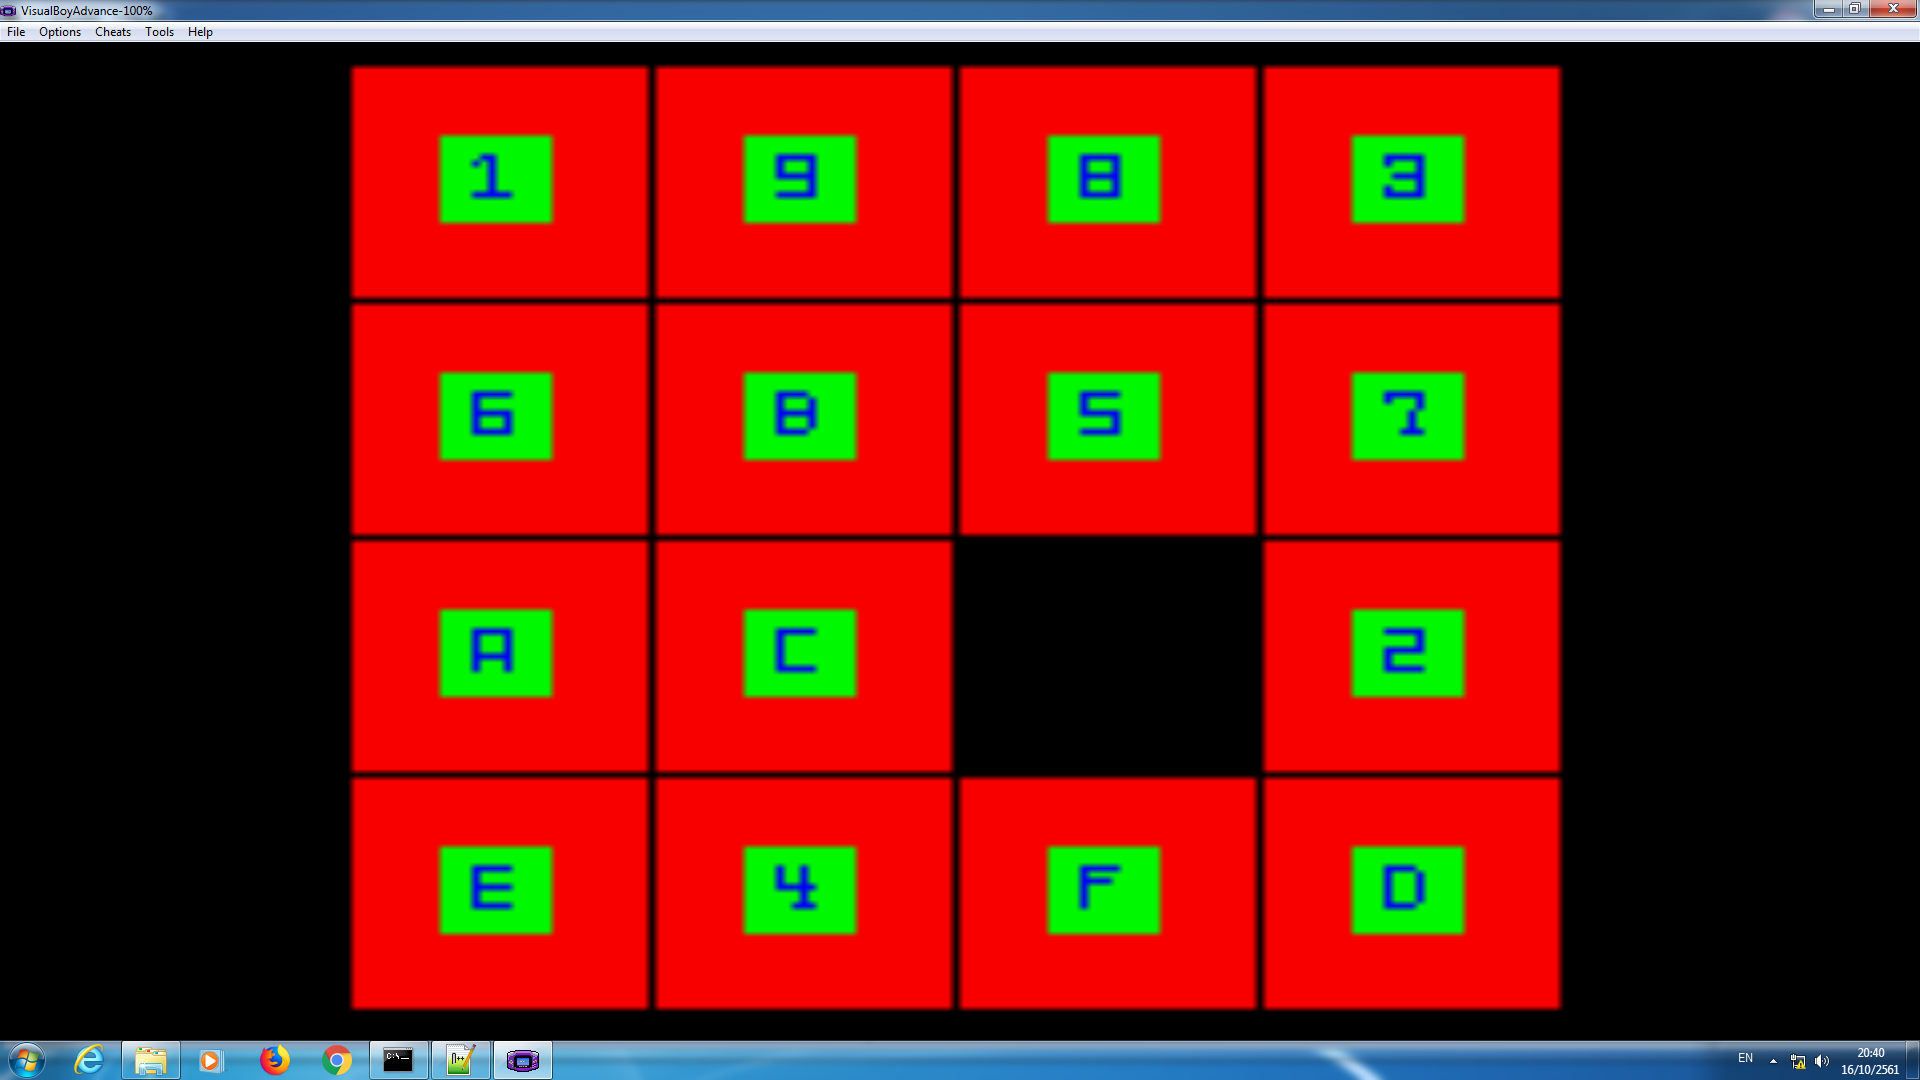
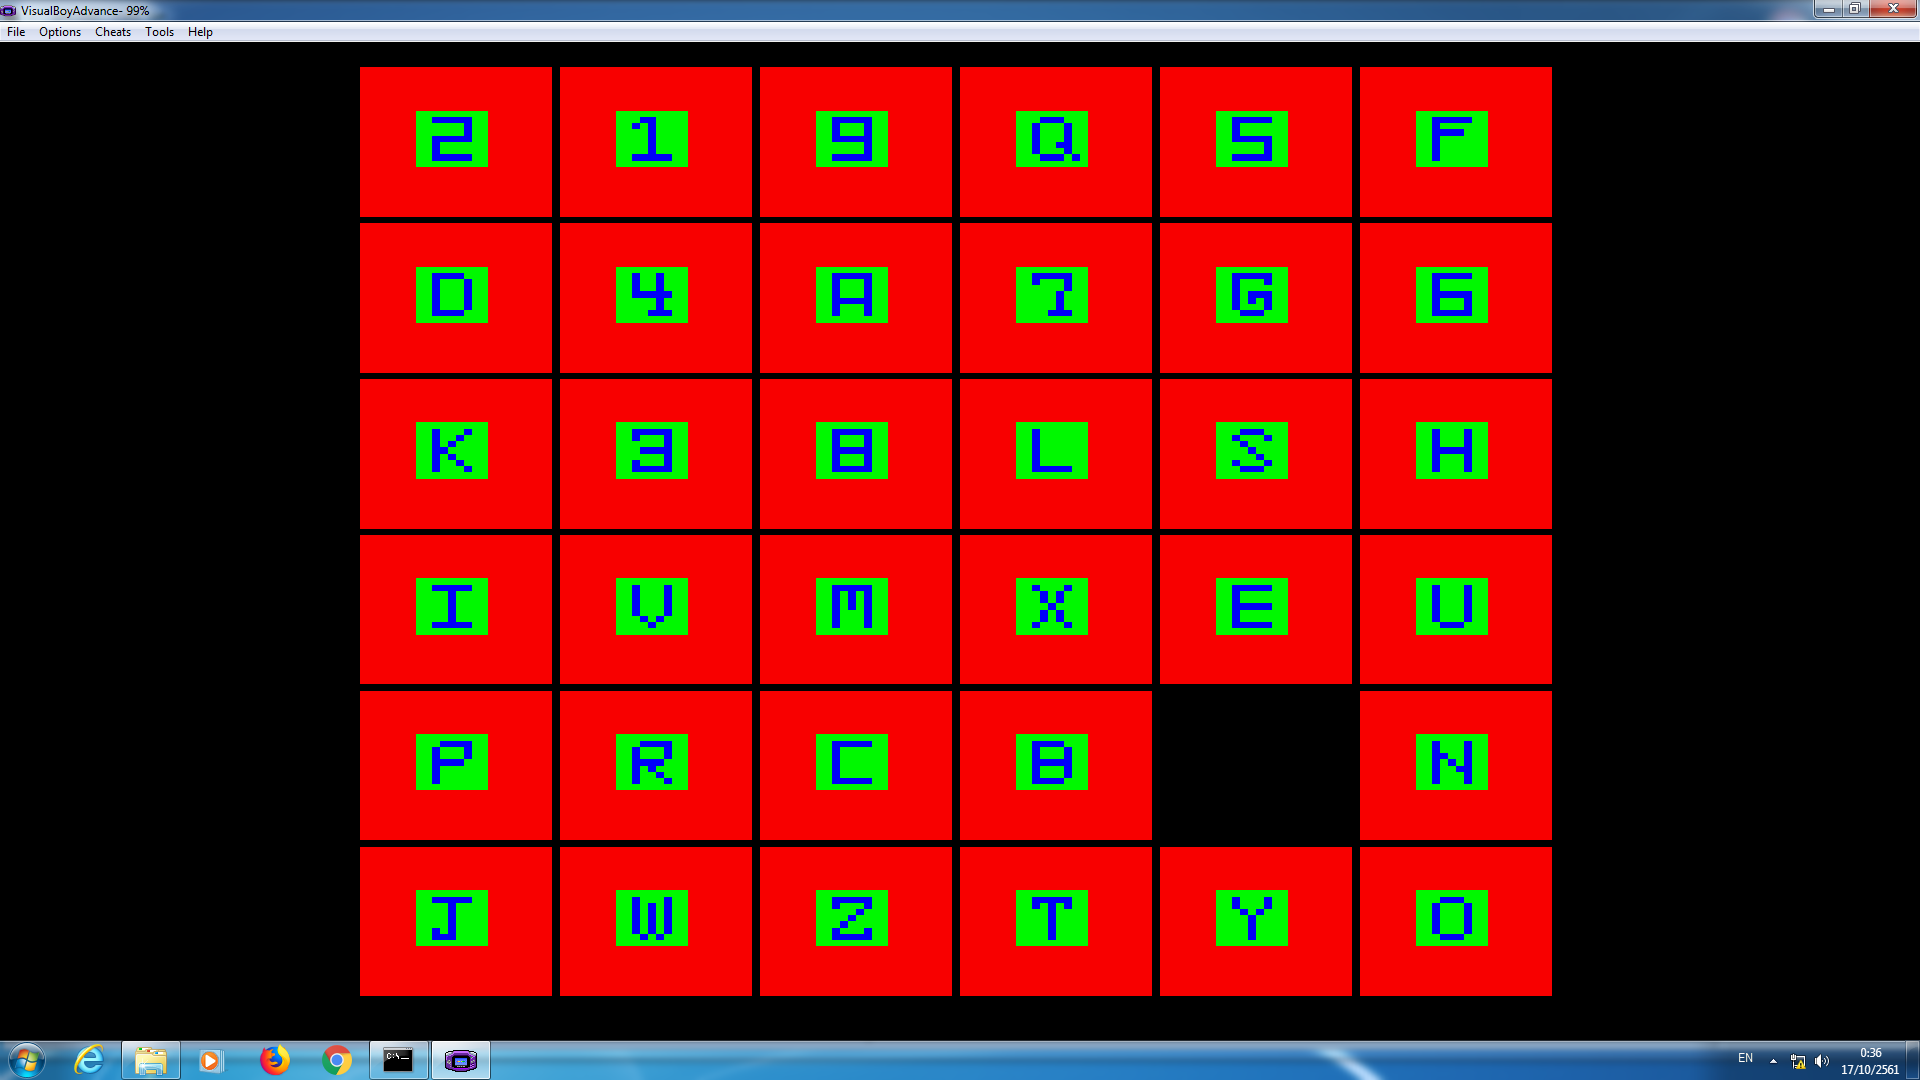
modified:   Font.hpp 	modified:   main.cpp 	modified:   res/slider.png 	modified:   rom/slider.gba

Changed region(s): [[0.1562, 0.0611, 0.8125, 1.0], [0.0625, 0.0, 0.0938, 0.0306]]

diff --git a/Font.hpp b/Font.hpp
@@ -9,7 +9,7 @@
 struct Font
 {
 	static constexpr const u8arm_t SIZE=7;
-	static constexpr const u8arm_t NUM=16;
+	static constexpr const u8arm_t NUM=36;
 
 	static const u8arm_t FONT[NUM][SIZE][SIZE];
 
@@ -25,9 +25,9 @@ const u8arm_t Font::FONT[Font::NUM][Font::SIZE][Font::SIZE]
 		{ // 0
 		{0,1,1,1,1,1,0} , \
 		{0,1,0,0,0,1,0} , \
-		{0,1,0,0,0,1,0} , \
-		{0,1,0,0,0,1,0} , \
-		{0,1,0,0,0,1,0} , \
+		{0,1,1,0,0,1,0} , \
+		{0,1,0,1,0,1,0} , \
+		{0,1,0,0,1,1,0} , \
 		{0,1,0,0,0,1,0} , \
 		{0,1,1,1,1,1,0} ,
 		}, \
@@ -181,8 +181,208 @@ const u8arm_t Font::FONT[Font::NUM][Font::SIZE][Font::SIZE]
 		{0,1,0,0,0,0,0} , \
 		{0,1,0,0,0,0,0} , \
 		{0,1,0,0,0,0,0} ,
-		}
+		}, \
 
+		{ // G
+		{0,1,1,1,1,1,0} , \
+		{0,1,0,0,0,1,0} , \
+		{0,1,0,0,0,0,0} , \
+		{0,1,0,1,1,1,0} , \
+		{0,1,0,1,0,1,0} , \
+		{0,1,0,0,0,1,0} , \
+		{0,0,1,1,1,0,0} ,
+		}, \
+
+		{ // H
+		{0,1,0,0,0,1,0} , \
+		{0,1,0,0,0,1,0} , \
+		{0,1,0,0,0,1,0} , \
+		{0,1,1,1,1,1,0} , \
+		{0,1,0,0,0,1,0} , \
+		{0,1,0,0,0,1,0} , \
+		{0,1,0,0,0,1,0} ,
+		}, \
+
+		{ // I
+		{0,1,1,1,1,1,0} , \
+		{0,0,0,1,0,0,0} , \
+		{0,0,0,1,0,0,0} , \
+		{0,0,0,1,0,0,0} , \
+		{0,0,0,1,0,0,0} , \
+		{0,0,0,1,0,0,0} , \
+		{0,1,1,1,1,1,0} ,
+		}, \
+
+		{ // J
+		{0,1,1,1,1,1,0} , \
+		{0,0,0,1,0,0,0} , \
+		{0,0,0,1,0,0,0} , \
+		{0,0,0,1,0,0,0} , \
+		{0,0,0,1,0,0,0} , \
+		{0,1,0,1,0,0,0} , \
+		{0,1,1,1,0,0,0} ,
+		}, \
+
+		{ // K
+		{0,1,0,0,0,1,0} , \
+		{0,1,0,0,1,0,0} , \
+		{0,1,0,1,0,0,0} , \
+		{0,1,1,0,0,0,0} , \
+		{0,1,0,1,0,0,0} , \
+		{0,1,0,0,1,0,0} , \
+		{0,1,0,0,0,1,0} ,
+		}, \
+
+		{ // L
+		{0,1,0,0,0,0,0} , \
+		{0,1,0,0,0,0,0} , \
+		{0,1,0,0,0,0,0} , \
+		{0,1,0,0,0,0,0} , \
+		{0,1,0,0,0,0,0} , \
+		{0,1,0,0,0,0,0} , \
+		{0,1,1,1,1,1,0} ,
+		}, \
+
+		{ // M
+		{0,1,1,1,1,1,0} , \
+		{0,1,0,1,0,1,0} , \
+		{0,1,0,1,0,1,0} , \
+		{0,1,0,1,0,1,0} , \
+		{0,1,0,0,0,1,0} , \
+		{0,1,0,0,0,1,0} , \
+		{0,1,0,0,0,1,0} ,
+		}, \
+
+		{ // N
+		{0,1,0,0,0,1,0} , \
+		{0,1,0,0,0,1,0} , \
+		{0,1,1,0,0,1,0} , \
+		{0,1,0,1,0,1,0} , \
+		{0,1,0,0,1,1,0} , \
+		{0,1,0,0,0,1,0} , \
+		{0,1,0,0,0,1,0} ,
+		}, \
+
+		{ // O
+		{0,0,1,1,1,0,0} , \
+		{0,1,0,0,0,1,0} , \
+		{0,1,0,0,0,1,0} , \
+		{0,1,0,0,0,1,0} , \
+		{0,1,0,0,0,1,0} , \
+		{0,1,0,0,0,1,0} , \
+		{0,0,1,1,1,0,0} ,
+		}, \
+
+		{ // P
+		{0,0,1,1,1,1,0} , \
+		{0,1,0,0,0,1,0} , \
+		{0,1,0,0,0,1,0} , \
+		{0,1,1,1,1,0,0} , \
+		{0,1,0,0,0,0,0} , \
+		{0,1,0,0,0,0,0} , \
+		{0,1,0,0,0,0,0} ,
+		}, \
+
+		{ // Q
+		{0,0,1,1,1,0,0} , \
+		{0,1,0,0,0,1,0} , \
+		{0,1,0,0,0,1,0} , \
+		{0,1,0,0,0,1,0} , \
+		{0,1,0,0,1,1,0} , \
+		{0,1,0,0,0,1,0} , \
+		{0,0,1,1,1,0,1} ,
+		}, \
+
+		{ // R
+		{0,0,1,1,1,1,0} , \
+		{0,1,0,0,0,1,0} , \
+		{0,1,0,0,0,1,0} , \
+		{0,1,1,1,1,0,0} , \
+		{0,1,0,1,0,0,0} , \
+		{0,1,0,0,1,0,0} , \
+		{0,1,0,0,0,1,0} ,
+		}, \
+
+		{ // S
+		{0,0,1,1,1,0,0} , \
+		{0,1,0,0,0,1,0} , \
+		{0,0,1,0,0,0,0} , \
+		{0,0,0,1,0,0,0} , \
+		{0,0,0,0,1,0,0} , \
+		{0,1,0,0,0,1,0} , \
+		{0,0,1,1,1,0,0} ,
+		}, \
+
+		{ // T
+		{0,1,1,1,1,1,0} , \
+		{0,1,0,1,0,1,0} , \
+		{0,0,0,1,0,0,0} , \
+		{0,0,0,1,0,0,0} , \
+		{0,0,0,1,0,0,0} , \
+		{0,0,0,1,0,0,0} , \
+		{0,0,0,1,0,0,0} ,
+		}, \
+
+		{ // U
+		{0,1,0,0,0,1,0} , \
+		{0,1,0,0,0,1,0} , \
+		{0,1,0,0,0,1,0} , \
+		{0,1,0,0,0,1,0} , \
+		{0,1,0,0,0,1,0} , \
+		{0,1,0,0,0,1,0} , \
+		{0,0,1,1,1,0,0} ,
+		}, \
+
+		{ // V
+		{0,1,0,0,0,1,0} , \
+		{0,1,0,0,0,1,0} , \
+		{0,1,0,0,0,1,0} , \
+		{0,1,0,0,0,1,0} , \
+		{0,1,0,0,0,1,0} , \
+		{0,0,1,0,1,0,0} , \
+		{0,0,0,1,0,0,0} ,
+		}, \
+
+		{ // W
+		{0,1,0,0,0,1,0} , \
+		{0,1,0,1,0,1,0} , \
+		{0,1,0,1,0,1,0} , \
+		{0,1,0,1,0,1,0} , \
+		{0,1,0,1,0,1,0} , \
+		{0,1,0,1,0,1,0} , \
+		{0,0,1,0,1,0,0} ,
+		}, \
+
+
+		{ // X
+		{0,1,0,0,0,1,0} , \
+		{0,0,1,0,1,0,0} , \
+		{0,0,1,0,1,0,0} , \
+		{0,0,0,1,0,0,0} , \
+		{0,0,1,0,1,0,0} , \
+		{0,0,1,0,1,0,0} , \
+		{0,1,0,0,0,1,0} ,
+		}, \
+
+		{ // Y
+		{0,1,0,0,0,1,0} , \
+		{0,1,0,0,0,1,0} , \
+		{0,0,1,0,1,0,0} , \
+		{0,0,0,1,0,0,0} , \
+		{0,0,0,1,0,0,0} , \
+		{0,0,0,1,0,0,0} , \
+		{0,0,0,1,0,0,0} ,
+		}, \
+
+		{ // Z
+		{0,1,1,1,1,1,0} , \
+		{0,1,0,0,0,1,0} , \
+		{0,0,0,0,1,0,0} , \
+		{0,0,0,1,0,0,0} , \
+		{0,0,1,0,0,0,0} , \
+		{0,1,0,0,0,1,0} , \
+		{0,1,1,1,1,1,0} ,
+		}
 
 };
 

diff --git a/main.cpp b/main.cpp
@@ -8,7 +8,7 @@
 
 //******************** Unit test *************************//
 
-#define SQLIST {1,2,3,4,5,6,7,8,9,0xA,0xB,0xC,0xD,0xE,0xF,0}
+#define SQLIST {1,2,3,4,5,6,7,8,9,10,11,12,13,14,15,16,17,18,19,20,21,22,23,24,25,26,27,28,29,30,31,32,33,34,35,0}
 
 template <typename T,usize_t N>
 static constexpr usize_t square(const T (&a)[N],usize_t n=2)
